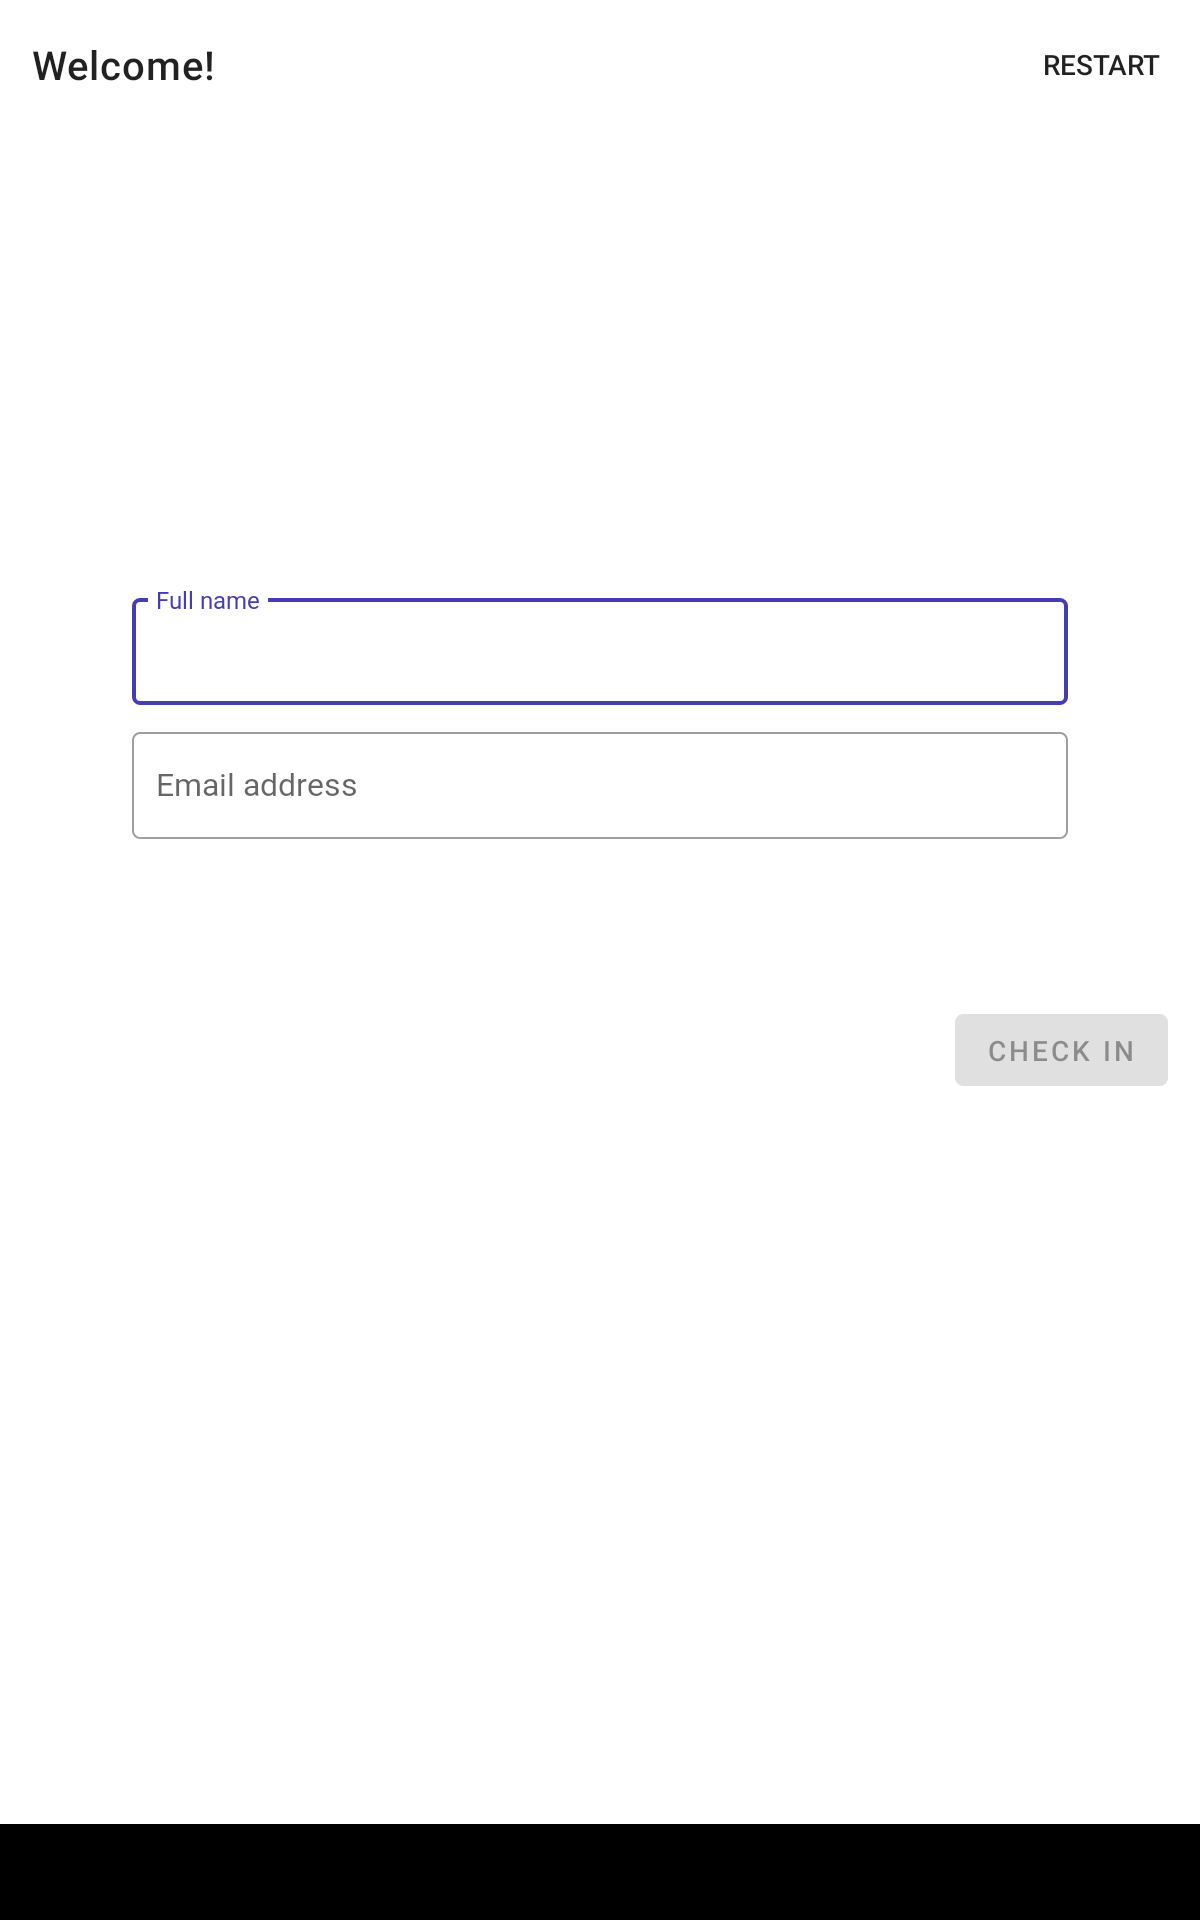
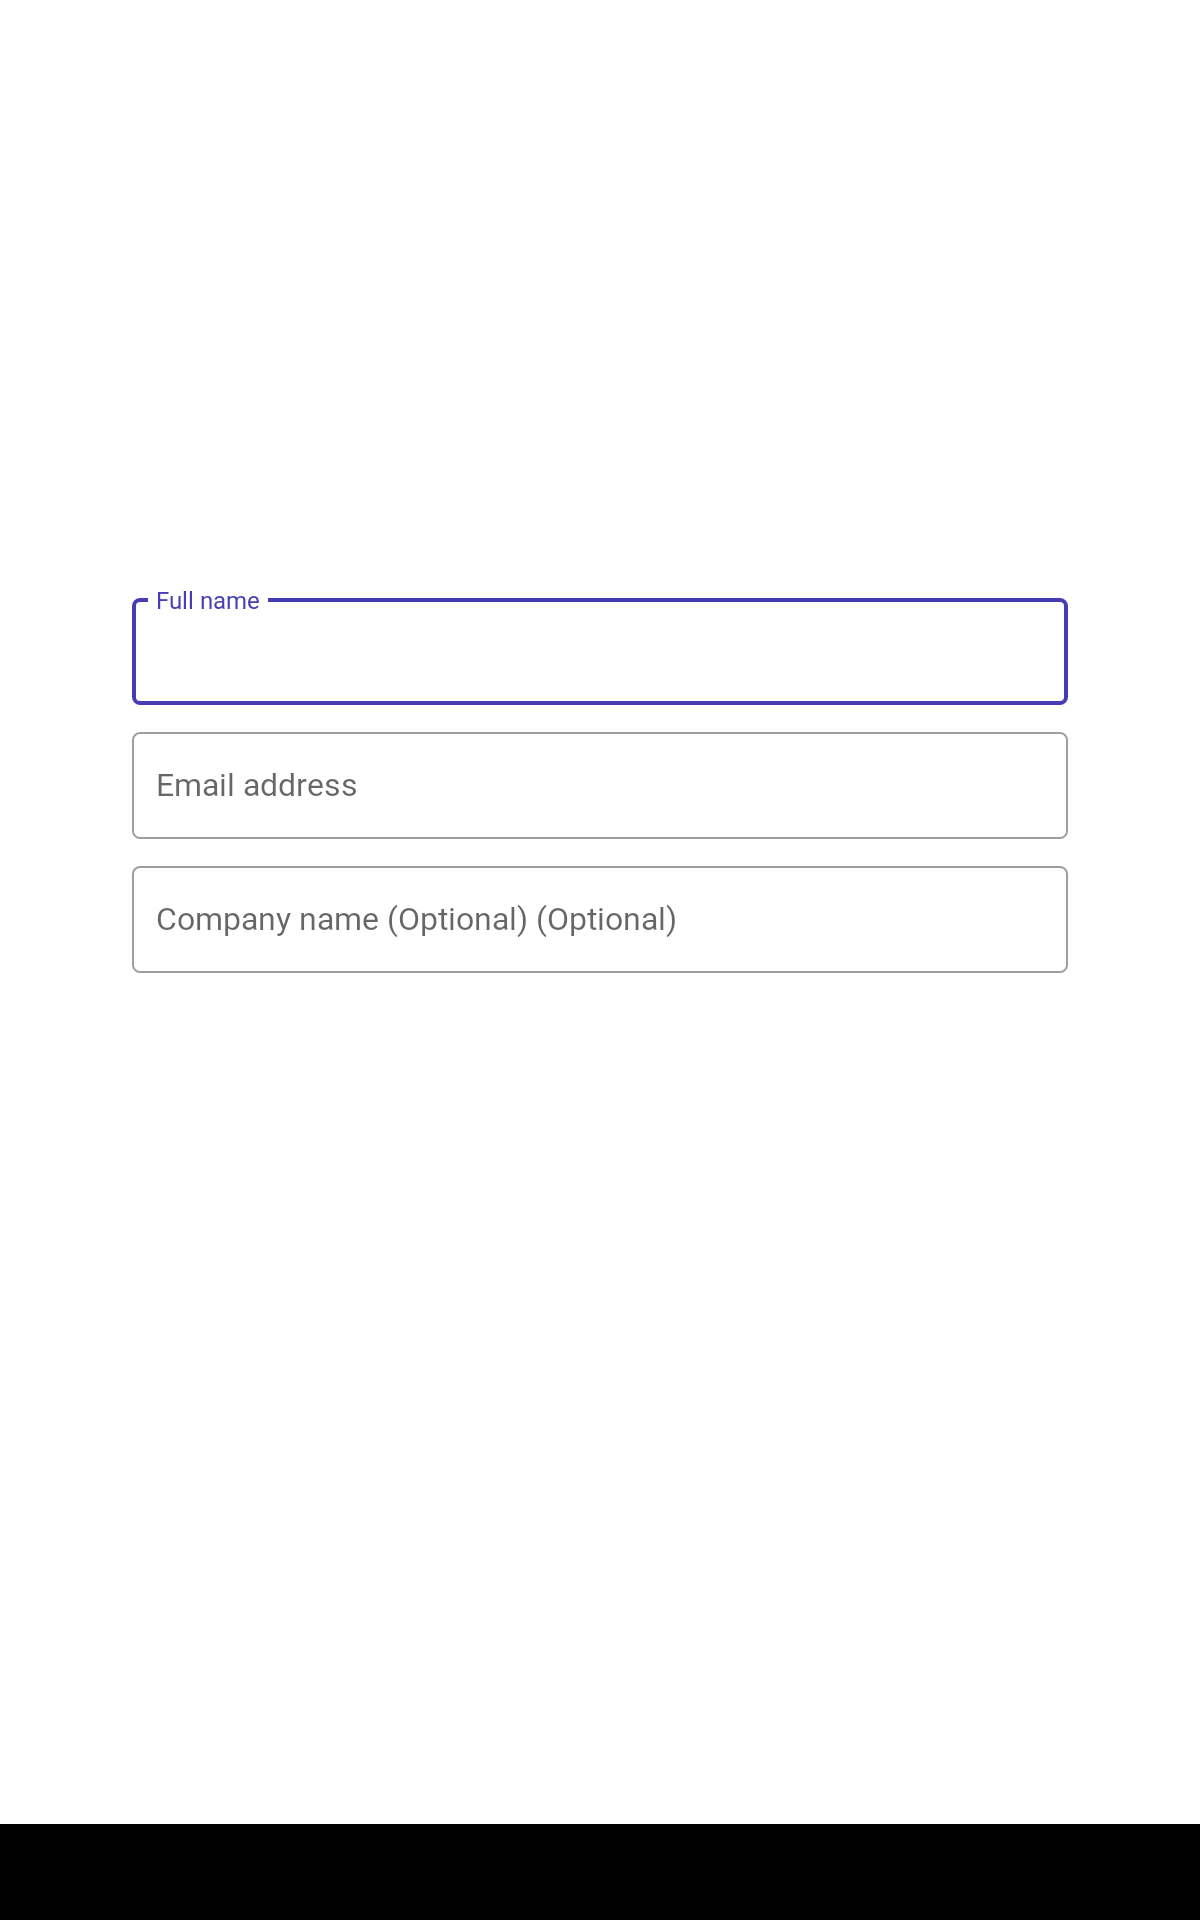
Finalize design with last feedback from Ivanna + Megan

diff --git a/app/src/androidTest/java/support/bymason/kiosk/checkin/feature/identity/IdentityFragmentUiTest.kt b/app/src/androidTest/java/support/bymason/kiosk/checkin/feature/identity/IdentityFragmentUiTest.kt
@@ -3,6 +3,9 @@ package support.bymason.kiosk.checkin.feature.identity
 import androidx.arch.core.executor.testing.InstantTaskExecutorRule
 import androidx.navigation.findNavController
 import androidx.test.core.app.launchActivity
+import androidx.test.espresso.Espresso.onView
+import androidx.test.espresso.action.ViewActions.typeText
+import androidx.test.espresso.matcher.ViewMatchers.withId
 import androidx.test.ext.junit.runners.AndroidJUnit4
 import kotlinx.coroutines.runBlocking
 import org.junit.Rule
@@ -36,7 +39,8 @@ class IdentityFragmentUiTest : UiTestBase() {
                     "Mason", "http://google.com/404"))
             `when`(mockApi.getGuestFields()).thenReturn(listOf(
                     GuestField("id1", GuestFieldType.NAME, "Full name", true, ".+"),
-                    GuestField("id2", GuestFieldType.EMAIL, "Email address", true, ".+")
+                    GuestField("id2", GuestFieldType.EMAIL, "Email address", true, ".+"),
+                    GuestField("id3", GuestFieldType.COMPANY, "Company name (Optional)", false, ".+")
             ))
         }
 
@@ -51,6 +55,63 @@ class IdentityFragmentUiTest : UiTestBase() {
 
             controller.navigate(R.id.identity)
         }
+
+        scenario.takeScreenshot()
+    }
+
+    @Test
+    fun diffFilledOutInvalidForm() {
+        runBlocking {
+            `when`(mockApi.getCompanyMetadata()).thenReturn(Company(
+                    "Mason", "http://google.com/404"))
+            `when`(mockApi.getGuestFields()).thenReturn(listOf(
+                    GuestField("id1", GuestFieldType.NAME, "Full name", true, ".+"),
+                    GuestField("id2", GuestFieldType.EMAIL, "Email address", true, ".+"),
+                    GuestField("id3", GuestFieldType.COMPANY, "Company name (Optional)", false, ".+")
+            ))
+        }
+
+        val scenario = launchActivity<HomeActivity>()
+
+        scenario.onActivity { activity ->
+            activity.supportFragmentManager.fragmentFactory = HomeActivity.Factory(
+                    dispatchers = dispatcherRule.dispatchers,
+                    api = mockApi
+            )
+            val controller = activity.findNavController(R.id.content)
+
+            controller.navigate(R.id.identity)
+        }
+        onView(withId(R.id.name)).perform(typeText("Person McFace"))
+
+        scenario.takeScreenshot()
+    }
+
+    @Test
+    fun diffFilledOutValidForm() {
+        runBlocking {
+            `when`(mockApi.getCompanyMetadata()).thenReturn(Company(
+                    "Mason", "http://google.com/404"))
+            `when`(mockApi.getGuestFields()).thenReturn(listOf(
+                    GuestField("id1", GuestFieldType.NAME, "Full name", true, ".+"),
+                    GuestField("id2", GuestFieldType.EMAIL, "Email address", true, ".+"),
+                    GuestField("id3", GuestFieldType.COMPANY, "Company name (Optional)", false, ".+")
+            ))
+        }
+
+        val scenario = launchActivity<HomeActivity>()
+
+        scenario.onActivity { activity ->
+            activity.supportFragmentManager.fragmentFactory = HomeActivity.Factory(
+                    dispatchers = dispatcherRule.dispatchers,
+                    api = mockApi
+            )
+            val controller = activity.findNavController(R.id.content)
+
+            controller.navigate(R.id.identity)
+        }
+        onView(withId(R.id.name)).perform(typeText("Person McFace"))
+        onView(withId(R.id.email)).perform(typeText("hot@sauce.com"))
 
         scenario.takeScreenshot()
     }

diff --git a/app/src/test/java/support/bymason/kiosk/checkin/feature/identity/IdentityFragmentTest.kt b/app/src/test/java/support/bymason/kiosk/checkin/feature/identity/IdentityFragmentTest.kt
@@ -1,5 +1,6 @@
 package support.bymason.kiosk.checkin.feature.identity
 
+import androidx.core.view.isVisible
 import androidx.fragment.app.testing.FragmentScenario
 import androidx.fragment.app.testing.launchFragmentInContainer
 import androidx.navigation.NavController
@@ -82,7 +83,7 @@ class IdentityFragmentTest {
     }
 
     @Test
-    fun `Continue button is disabled on launch`() {
+    fun `Continue button is hidden and disabled on launch`() {
         runBlocking {
             `when`(mockApi.getCompanyMetadata()).thenReturn(Company(
                     "Mason", "https://ssl.gstatic.com/s2/profiles/images/silhouette200.png"))
@@ -96,6 +97,7 @@ class IdentityFragmentTest {
         scenario.onFragment { fragment ->
             val binding = IdentityFragmentBinding.bind(fragment.requireView())
 
+            assertThat(binding.next.isVisible).isFalse()
             assertThat(binding.next.isEnabled).isFalse()
         }
     }
@@ -161,6 +163,28 @@ class IdentityFragmentTest {
     }
 
     @Test
+    fun `Continue button becomes visible when text is inputted`() {
+        runBlocking {
+            `when`(mockApi.getCompanyMetadata()).thenReturn(Company(
+                    "Mason", "https://ssl.gstatic.com/s2/profiles/images/silhouette200.png"))
+            `when`(mockApi.getGuestFields()).thenReturn(listOf(
+                    GuestField("id1", GuestFieldType.NAME, "foo", true, ".+"),
+                    GuestField("id2", GuestFieldType.EMAIL, "foo", true, ".+")
+            ))
+        }
+
+        val scenario = launchFragment()
+        scenario.onFragment { fragment ->
+            val binding = IdentityFragmentBinding.bind(fragment.requireView())
+
+            Thread.sleep(500) // Wait for ListAdapter diffing
+            onView(withId(R.id.name)).perform(replaceText("A"))
+
+            assertThat(binding.next.isVisible).isTrue()
+        }
+    }
+
+    @Test
     fun `Continue button becomes enabled when all fields are valid`() {
         runBlocking {
             `when`(mockApi.getCompanyMetadata()).thenReturn(Company(
@@ -201,6 +225,9 @@ class IdentityFragmentTest {
         val scenario = launchFragment()
         scenario.onFragment { fragment ->
             Navigation.setViewNavController(fragment.requireView(), mockNavController)
+
+            Thread.sleep(500) // Wait for ListAdapter diffing
+            onView(withId(R.id.name)).perform(replaceText("A"))
         }
 
         onView(withId(R.id.next)).perform(click())

diff --git a/app/src/test/java/support/bymason/kiosk/checkin/feature/identity/IdentityViewModelTest.kt b/app/src/test/java/support/bymason/kiosk/checkin/feature/identity/IdentityViewModelTest.kt
@@ -57,6 +57,35 @@ class IdentityViewModelTest {
     }
 
     @Test
+    fun `Buttons are hidden on start`() = dispatcherRule.runBlocking {
+        val state = FieldState(GuestField("id", GuestFieldType.NAME, "foo", true, ".+"))
+        `when`(mockRepository.getGuestFields()).thenReturn(listOf(state))
+
+        assertThat(vm.state.value?.areButtonsVisible).isFalse()
+    }
+
+    @Test
+    fun `Buttons are visible after user inputs text`() = dispatcherRule.runBlocking {
+        val state = FieldState(GuestField("id", GuestFieldType.NAME, "foo", true, ".+"))
+        `when`(mockRepository.getGuestFields()).thenReturn(listOf(state))
+
+        vm.onFieldChanged(state, "Foo", true)
+
+        assertThat(vm.state.value?.areButtonsVisible).isTrue()
+    }
+
+    @Test
+    fun `Buttons stay visible after user clears text`() = dispatcherRule.runBlocking {
+        val state = FieldState(GuestField("id", GuestFieldType.NAME, "foo", true, ".+"))
+        `when`(mockRepository.getGuestFields()).thenReturn(listOf(state))
+
+        vm.onFieldChanged(state, "Foo", true)
+        vm.onFieldChanged(state, "", true)
+
+        assertThat(vm.state.value?.areButtonsVisible).isTrue()
+    }
+
+    @Test
     fun `Guest fields with regex are processed`() = dispatcherRule.runBlocking {
         val state = FieldState(GuestField("id", GuestFieldType.NAME, "foo", true, ".+"))
         `when`(mockRepository.getGuestFields()).thenReturn(listOf(state))

diff --git a/app/src/main/java/support/bymason/kiosk/checkin/feature/identity/IdentityFragment.kt b/app/src/main/java/support/bymason/kiosk/checkin/feature/identity/IdentityFragment.kt
@@ -40,6 +40,7 @@ class IdentityFragment(
         fields.viewTreeObserver.removeOnGlobalLayoutListener(installer)
     }
     private val progress: View? by lazy { requireActivity().findViewById<View>(R.id.progress) }
+    private var restartMenuItem: MenuItem? = null
     private val installer = KeyboardInstaller()
 
     init {
@@ -68,6 +69,7 @@ class IdentityFragment(
 
     override fun onCreateOptionsMenu(menu: Menu, inflater: MenuInflater) {
         inflater.inflate(R.menu.check_in_options, menu)
+        restartMenuItem = menu.findItem(R.id.action_restart)
     }
 
     override fun onOptionsItemSelected(item: MenuItem): Boolean {
@@ -89,11 +91,15 @@ class IdentityFragment(
         progress?.isVisible = state.isLoading
         updateEnabledStatus(binding.root, state.areViewEnabled)
         binding.next.isEnabled = state.areViewEnabled && state.isContinueButtonEnabled
-        adapter.submitList(state.fieldStates)
+        binding.next.isVisible = state.areButtonsVisible
+        restartMenuItem?.isVisible = state.areButtonsVisible
+
         Glide.with(this)
                 .load(state.companyLogoUrl)
                 .transition(DrawableTransitionOptions.withCrossFade())
                 .into(binding.logo)
+
+        adapter.submitList(state.fieldStates)
     }
 
     private fun updateEnabledStatus(group: ViewGroup, enabled: Boolean) {

diff --git a/app/src/main/java/support/bymason/kiosk/checkin/feature/identity/IdentityViewModel.kt b/app/src/main/java/support/bymason/kiosk/checkin/feature/identity/IdentityViewModel.kt
@@ -110,7 +110,12 @@ class IdentityViewModel(
             }
 
             val isFormReady = newStates.none { it.hasError }
-            copy(isContinueButtonEnabled = isFormReady, fieldStates = newStates)
+            val hasUserFilledOutAnyFields = newStates.any { it.value.orEmpty().isNotEmpty() }
+            copy(
+                    isContinueButtonEnabled = isFormReady,
+                    areButtonsVisible = hasUserFilledOutAnyFields || areButtonsVisible,
+                    fieldStates = newStates
+            )
         }
 
         if (_state.value.isContinueButtonEnabled) {
@@ -132,6 +137,7 @@ class IdentityViewModel(
     data class State(
             val isLoading: Boolean = true,
             val areViewEnabled: Boolean = true,
+            val areButtonsVisible: Boolean = false,
             val isContinueButtonEnabled: Boolean = false,
             val fieldStates: List<FieldState> = emptyList(),
             val companyLogoUrl: String? = null
